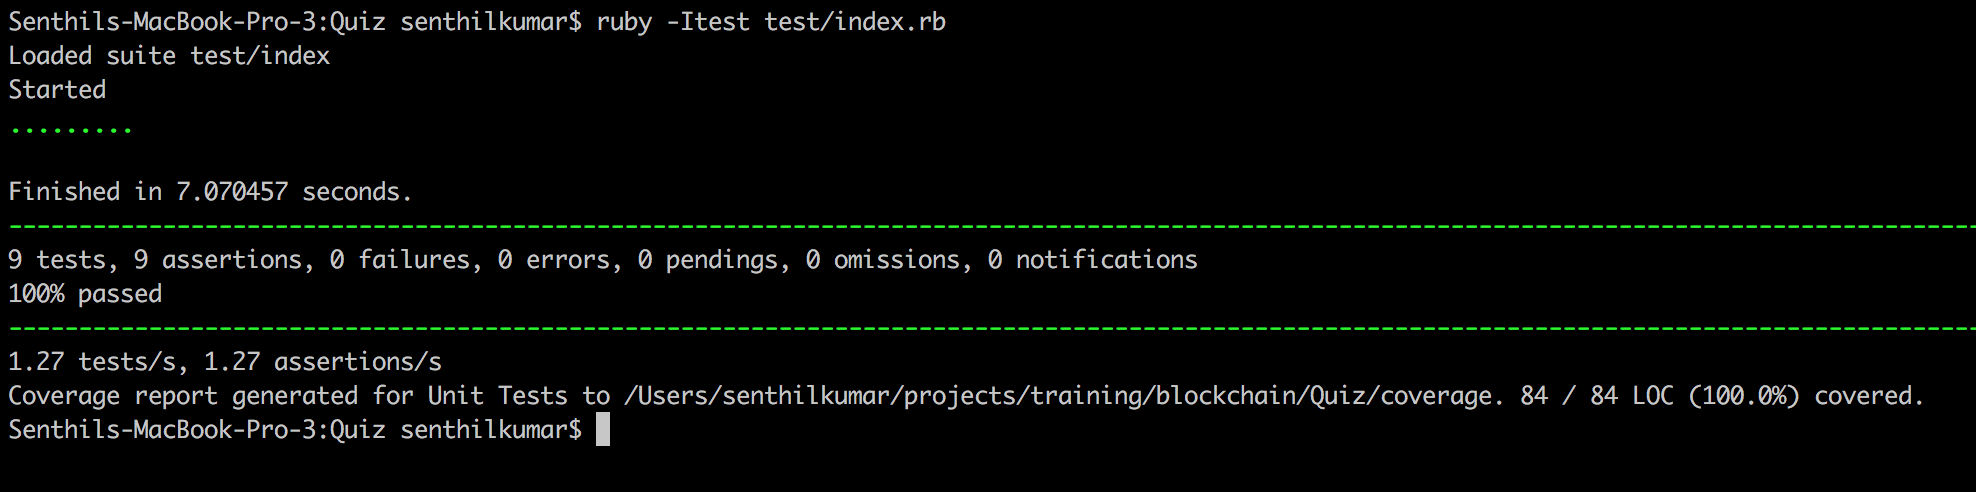
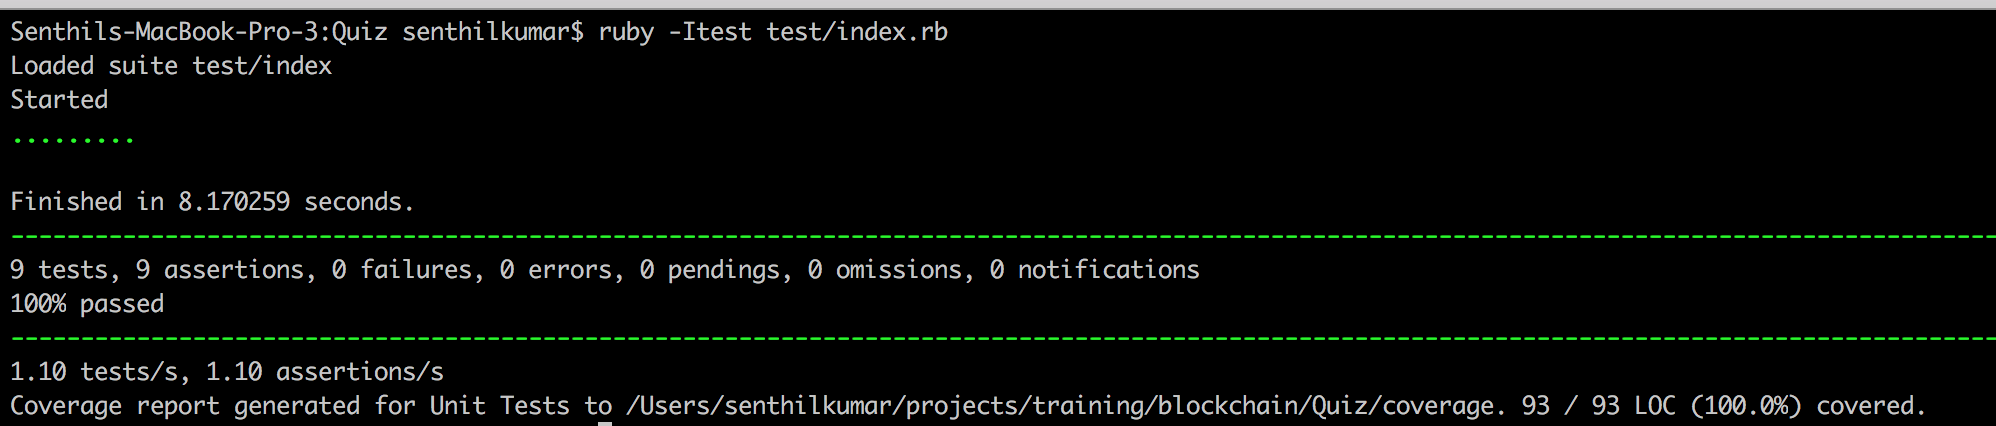
Moved the inherited class to seperate and modified test case, included algorithm and ruby version file.

Changed region(s): [[0.0, 0.3662, 1.0, 0.9765], [0.0, 0.0, 1.0, 0.2746], [0.0, 0.3052, 0.0617, 0.3357]]

diff --git a/lib/number_to_word.rb b/lib/number_to_word.rb
@@ -1,105 +1,35 @@
-require "json"
-
-class PreManipulationForWords
-  ###
-  # @class PreManipulationForWords
-  # @description Creates an instance of PreManipulationForWords.
-  ###
-  def initialize
-    # @numberToLetterMap = JSON.parse(File.read("config/words_number.json")) # Removed it to make the performance of the calculation
-    @number_key_mapping = {
-      "2" => %w[a b c],
-      "3" => %w[d e f],
-      "4" => %w[g h i],
-      "5" => %w[j k l],
-      "6" => %w[m n o],
-      "7" => %w[p q r s],
-      "8" => %w[t u v],
-      "9" => %w[w x y z],
-    }
-    @dictionary = []
-    file_path = "db/dictionary.txt"
-
-    File.foreach(file_path) do |word|
-      @dictionary.push word.chop.to_s.downcase
-    end
-  end
-
-  ###
-  # @method manipulate_results_for_number
-  # @params keys
-  # @params results
-  # @description Manipulate the results for first and second combination.
-  ###
-  def manipulate_results_for_number(keys, results = {})
-    total_number = keys.length - 1
-
-    (2..total_number).each do |i|
-      first_array = keys[0..i]
-      second_array = keys[i + 1..total_number]
-      next if first_array.length < 3 || second_array.length < 3
-      first_combination = first_array.shift.product(*first_array).map(&:join)
-      next if first_combination.nil?
-      second_combination = second_array.shift.product(*second_array).map(&:join)
-
-      next if second_combination.nil?
-      results[i] = [(first_combination & @dictionary), (second_combination & @dictionary)]
-    end
-    results
-  end
-
-  ###
-  # @method check_valid_number
-  # @params number
-  # @description Finds the input value is valid or not (Checks the numbers and its number length is greater than 10)
-  ###
-  def check_valid_number(number)
-    unless (number.length == 10 && number.match(/^[2-9]*$/))
-      raise "The given number is not valid. Please try again"
-    end
-  end
-
-  ###
-  # @method arrange_words
-  # @params results
-  # @description Arrange the results with the array format to display as a final words.
-  ###
-  def arrange_words(results)
-    final_words = []
-    results.each do |key, combinations|
-      next if combinations.first.nil? || combinations.last.nil?
-      combinations.first.product(combinations.last).each do |combo_words|
-        final_words << combo_words
-      end
-    end
-    final_words
-  end
-end
+require_relative "pre_manipulation_for_two_words.rb"
 
 ###
 # @class NumberToWord
 # @implements PreManipulationForWords
 ###
-class NumberToWord < PreManipulationForWords
+class NumberToWord
+  def initialize
+    @pre_manipulation_for_words = PreManipulationForWords.new
+  end
+
   def letter_combinations(digits)
+    @pre_manipulation_for_words.check_valid_number(digits)
 
-    #return if number not valid
-    # return [] if digits.nil? || digits.size != 10 || digits.split("").select { |a| (a.to_i == 0 || a.to_i == 1) }.length > 0
-    self.check_valid_number(digits)
-
-    #number to letters mapping
-    letters = @number_key_mapping
+    # Number to dialpad mapping
+    letters = @pre_manipulation_for_words.instance_variable_get(:@number_key_mapping)
 
     # get all letters for numbers in form of array
     keys = digits.chars.map { |digit| letters[digit] }
 
-    results = self.manipulate_results_for_number(keys)
+    results = @pre_manipulation_for_words.manipulate_results_for_number(keys)
 
     #arrange words like we need as a output
-    final_words = self.arrange_words(results)
+    final_words = @pre_manipulation_for_words.arrange_words(results)
 
     # for all numbers
-    final_words << (keys.shift.product(*keys).map(&:join) & @dictionary).join(", ") # match with all character
+    dictionary_words = @pre_manipulation_for_words.instance_variable_get(:@dictionary)
+
+    final_words << (keys.shift.product(*keys).map(&:join) & dictionary_words).join(", ") # match with all character
     final_words
   end
 end
+
+# 6686787825
+# 2282668687

diff --git a/lib/pre_manipulation_for_two_words.rb b/lib/pre_manipulation_for_two_words.rb
@@ -1,0 +1,77 @@
+require "json"
+
+class PreManipulationForWords
+  ###
+  # @class PreManipulationForWords
+  # @description Creates an instance of PreManipulationForWords.
+  ###
+  def initialize
+    # @numberToLetterMap = JSON.parse(File.read("config/words_number.json")) # Removed it to make the performance of the calculation
+    @number_key_mapping = {
+      "2" => %w[a b c],
+      "3" => %w[d e f],
+      "4" => %w[g h i],
+      "5" => %w[j k l],
+      "6" => %w[m n o],
+      "7" => %w[p q r s],
+      "8" => %w[t u v],
+      "9" => %w[w x y z],
+    }
+    @dictionary = []
+    file_path = "db/dictionary.txt"
+
+    File.foreach(file_path) do |word|
+      @dictionary.push word.chop.to_s.downcase
+    end
+  end
+
+  ###
+  # @method manipulate_results_for_number
+  # @params keys
+  # @params results
+  # @description Manipulate the results for first and second combination.
+  ###
+  def manipulate_results_for_number(keys, results = {})
+    total_number = keys.length - 1
+
+    (2..total_number).each do |i|
+      first_array = keys[0..i]
+      second_array = keys[i + 1..total_number]
+      next if first_array.length < 3 || second_array.length < 3
+      first_combination = first_array.shift.product(*first_array).map(&:join)
+      next if first_combination.nil?
+      second_combination = second_array.shift.product(*second_array).map(&:join)
+
+      next if second_combination.nil?
+      results[i] = [(first_combination & @dictionary), (second_combination & @dictionary)]
+    end
+    results
+  end
+
+  ###
+  # @method check_valid_number
+  # @params number
+  # @description Finds the input value is valid or not (Checks the numbers and its number length is greater than 10)
+  ###
+  def check_valid_number(number)
+    unless (number.length == 10 && number.match(/^[2-9]*$/))
+      raise "The given number is not valid. Please try again"
+    end
+  end
+
+  ###
+  # @method arrange_words
+  # @params results
+  # @description Arrange the results with the array format to display as a final words.
+  ###
+  def arrange_words(results)
+    final_words = []
+    results.each do |key, combinations|
+      next if combinations.first.nil? || combinations.last.nil?
+      combinations.first.product(combinations.last).each do |combo_words|
+        final_words << combo_words
+      end
+    end
+    final_words
+  end
+end

diff --git a/test/main_test.rb b/test/main_test.rb
@@ -3,26 +3,18 @@ require_relative "../lib/number_to_word"
 require "test/unit"
 
 class TestNumberToWord < Test::Unit::TestCase
-  def setup
-    @data_to_test = [
-      ["noun", "struck"],
-      ["onto", "struck"],
-      ["motor", "truck"],
-      ["motor", "usual"],
-      ["nouns", "truck"],
-      ["nouns", "usual"],
-      "motortruck",
-    ]
-  end
-
   ###
   # @method test_number_to_word_without_0_or_1
   # @description Should compare the test value of output with the static test value.
   ###
   def test_number_to_word_without_0_or_1
+    @data_to_test = [["noun", "struck"], ["onto", "struck"], ["motor", "truck"], ["motor", "usual"], ["nouns", "truck"], ["nouns", "usual"], "motortruck"]
+
     final_words = NumberToWord.new()
     combination_words = "6686787825"
-    assert_equal(@data_to_test, final_words.letter_combinations(combination_words))
+    resulted_output = final_words.letter_combinations(combination_words)
+    assert_equal(@data_to_test, resulted_output)
+    # assert_equal(@data_to_test, final_words.letter_combinations(combination_words))
   end
 
   ###
@@ -30,9 +22,12 @@ class TestNumberToWord < Test::Unit::TestCase
   # @description Should compare the length of output with the static test value.
   ###
   def test_number_to_word_with_length_2
+    @data_to_test = [["noun", "struck"], ["onto", "struck"], ["motor", "truck"], ["motor", "usual"], ["nouns", "truck"], ["nouns", "usual"], "motortruck"]
+
     final_words = NumberToWord.new()
     combination_words = "6686787825"
-    assert_equal(@data_to_test.length, final_words.letter_combinations(combination_words).length)
+    resulted_output = final_words.letter_combinations(combination_words)
+    assert_equal(@data_to_test.length, resulted_output.length)
   end
 
   ###

diff --git a/test/lib/number_to_word_test.rb b/test/lib/number_to_word_test.rb
@@ -1,8 +1,14 @@
 
 require_relative "../../lib/number_to_word"
+require_relative "../../lib/pre_manipulation_for_two_words"
+
 require "test/unit"
 
 class TestNumberToWord < Test::Unit::TestCase
+  def setup
+    @pre_manipulation_for_words = PreManipulationForWords.new
+  end
+
   def test_letter_combinations
     combination_words = "8686782825"
     final_words = NumberToWord.new()
@@ -27,12 +33,12 @@ class TestNumberToWord < Test::Unit::TestCase
       ["a", "b", "c"],
       ["j", "k", "l"],
     ]
-    assert_equal(5, final_words.manipulate_results_for_number(keys).length)
+    assert_equal(5, @pre_manipulation_for_words.manipulate_results_for_number(keys).length)
   end
 
   def test_arrange_words
     final_words = NumberToWord.new()
     results = {2 => [["tot"], []], 3 => [["unto"], ["statal"]], 4 => [[], []], 5 => [[], ["buck"]], 6 => [[], ["taj"]]}
-    assert_equal([["unto", "statal"]], final_words.arrange_words(results))
+    assert_equal([["unto", "statal"]], @pre_manipulation_for_words.arrange_words(results))
   end
 end

diff --git a/index.rb b/index.rb
@@ -8,7 +8,11 @@ print "Enter the number to check the letter combinations :: "
 combination_words = STDIN.gets().chomp
 
 begin
-  print "Letter Combinations:" + final_words.letter_combinations(combination_words).to_s.green
+  final_word_combinations = final_words.letter_combinations(combination_words)
+  puts "----------------------------------".yellow
+  puts "  Total Combination Found :: #{final_word_combinations.flatten.length}".yellow
+  puts "----------------------------------".yellow
+  puts final_word_combinations.to_s.green
 rescue RuntimeError
   print "The number you have entered is not a valid number. Please try again.".red
 end

diff --git a/README.md b/README.md
@@ -7,6 +7,24 @@
 The project is a Ruby script which takes an input of a 10 digit phone number and converts into meaningful words by performing keypad's letter combinations against a dictionary file
 
 
+## Algorithm / Walkthrough
+
+1. Given a 10 digit phone number as input
+2. Based on the input digit it returns the list of all possible combinations of words (minimum 3 letters per word) from the dictionary file.
+3. The resulted combination values is mapped directly in order to form the phone number.
+4. Then number to letter mapping is as follows :
+
+    | Digit    | TYPEPAD    |
+    |:---------|:-----------|
+    | 2        | A,B,C      |
+    | 3        | D,E,F      |
+    | 4        | G,H,I      |
+    | 5        | J,K,L      |
+    | 6        | M,N,O      |
+    | 7        | P,Q,R,S    |
+    | 8        | T,U,V      |
+    | 9        | W,X,Y,Z    |
+
 ## Getting Started
 
 Getting up and running is as easy as 1, 2, 3.
@@ -61,7 +79,6 @@ Run `docker-compose run app ruby index.rb` for running the application using doc
 
 #### Test Output
 ![](output/test_output.png)
-
 
 ## Changelog
 
